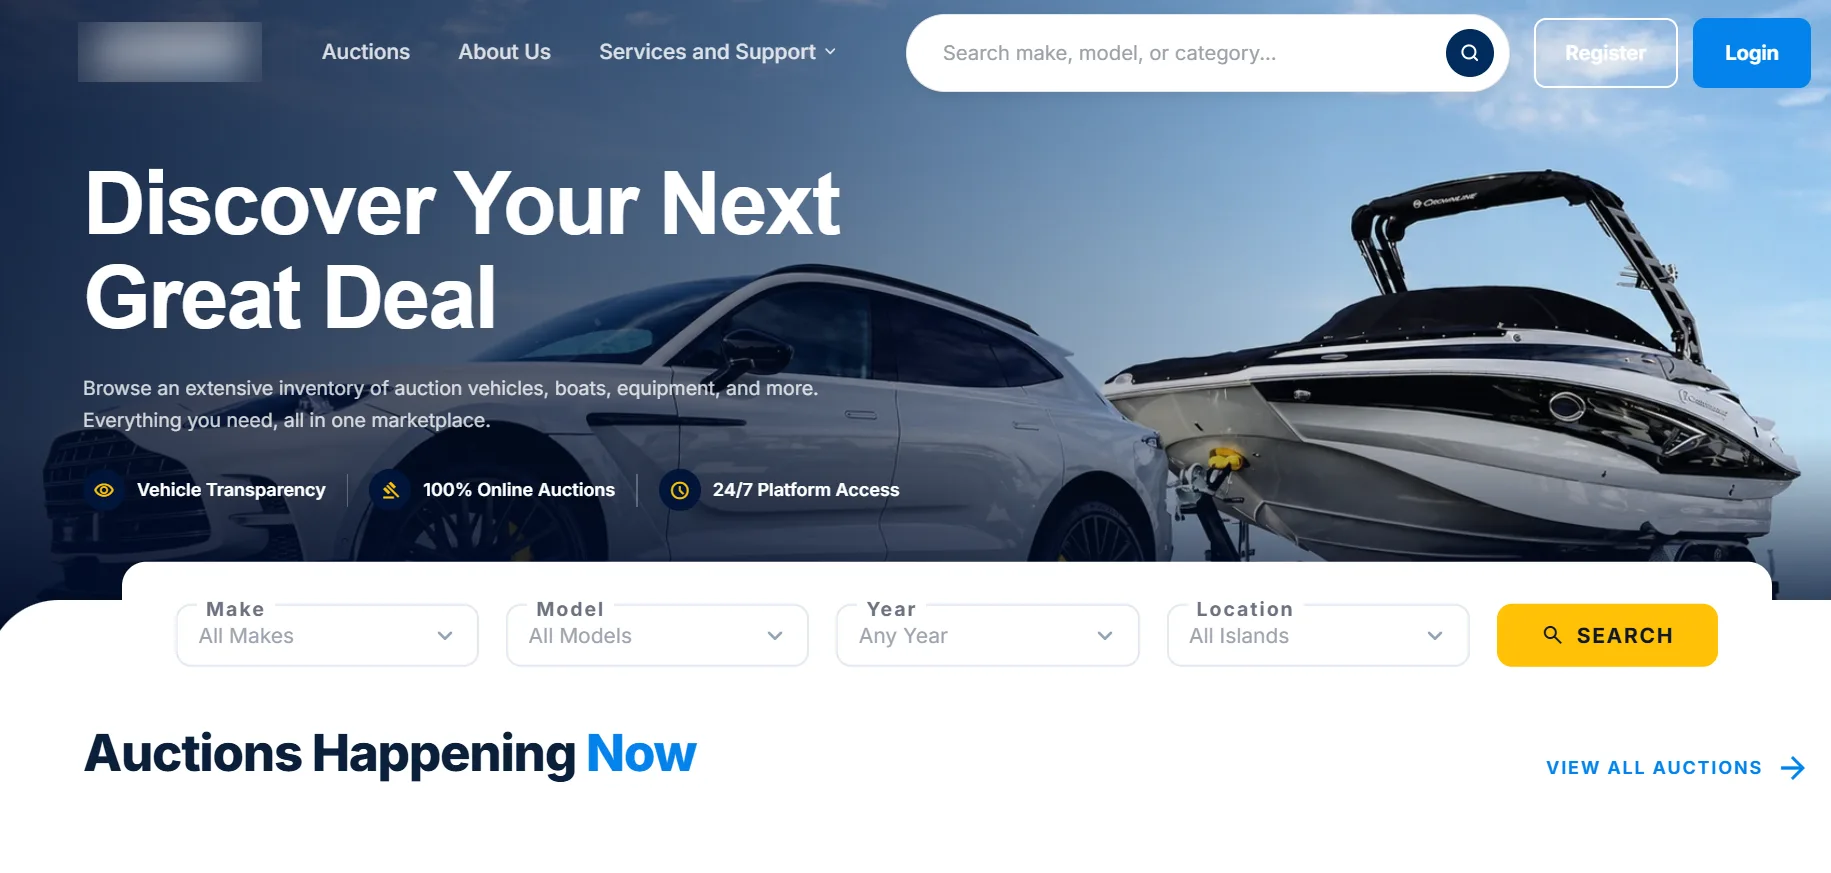
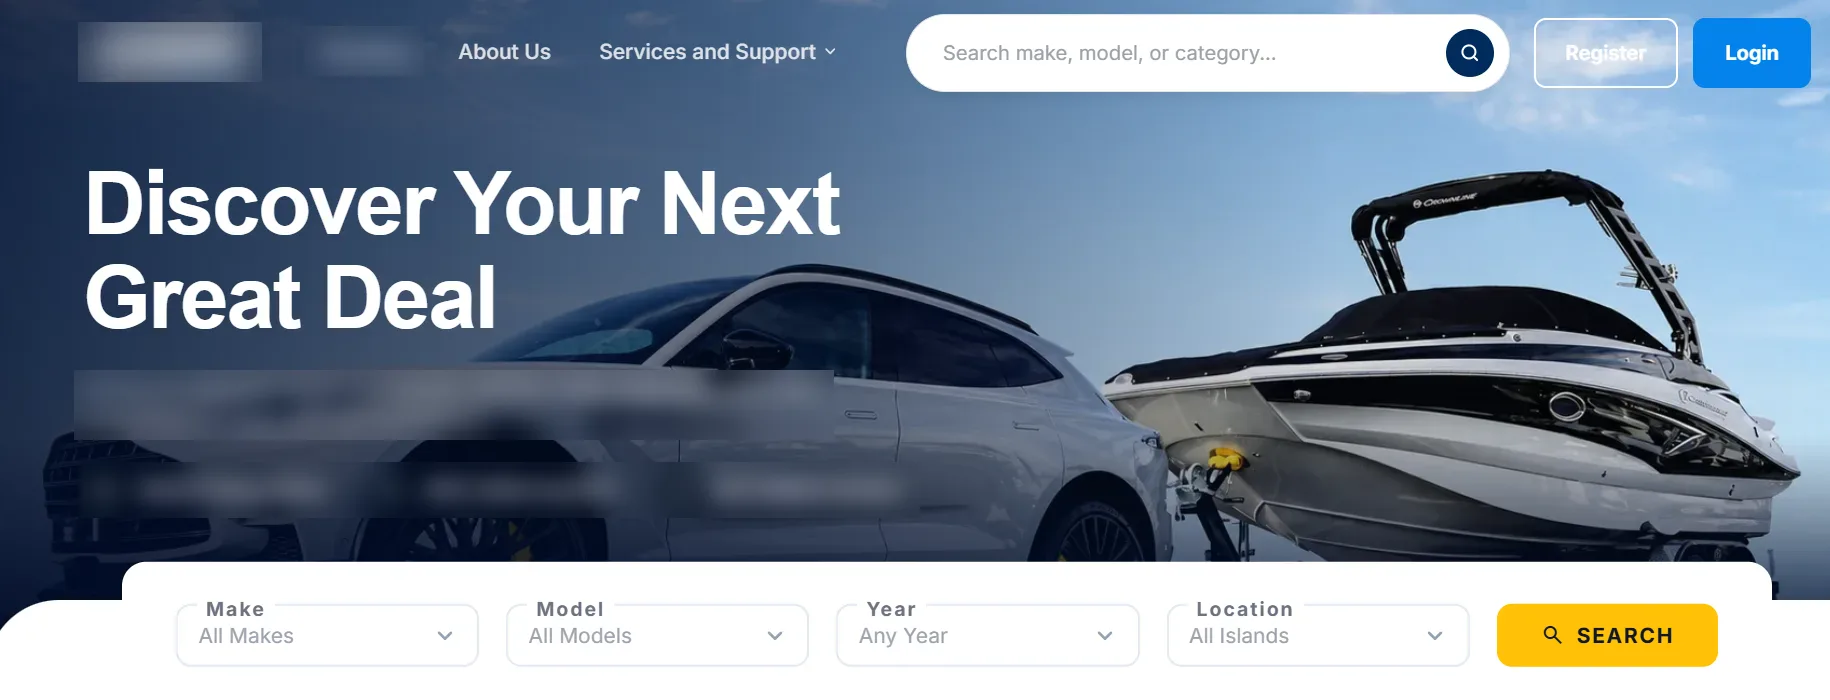
Audit fixes: remove auction wording, add mobile menu, faster loader
- Work screenshots: crop bidding panel, blur auction words; copy and alt text no longer mention bidding
- Mobile menu with all 5 links (button, closes on tap and Escape)
- About monogram visible (was same colour as its background)
- Loader now shows the brand mark and finishes in 1.6s (was a blank 2.4s)
- No request for the missing demo poster (404)
- Heading order fixed, main landmark added
- Illustration label visible, share image for link previews, smooth scroll off for reduced motion
- DESIGN.md added

diff --git a/index.html b/index.html
@@ -13,7 +13,12 @@
 <meta property="og:url" content="https://muhhhamkabeer.github.io/">
 <meta property="og:title" content="Muhammad Kabeer | Software engineer &amp; AI automation">
 <meta property="og:description" content="I build web apps, fix stuck projects and automate repetitive work with AI for small and growing businesses.">
+<meta property="og:image" content="https://muhhhamkabeer.github.io/images/og.png">
+<meta property="og:image:width" content="1200">
+<meta property="og:image:height" content="630">
+<meta property="og:image:alt" content="Muhammad Kabeer, software and AI automation engineer">
 <meta name="twitter:card" content="summary_large_image">
+<meta name="twitter:image" content="https://muhhhamkabeer.github.io/images/og.png">
 <script type="application/ld+json">
 {"@context":"https://schema.org","@type":"Person","name":"Muhammad Kabeer","jobTitle":"Software engineer","address":{"@type":"PostalAddress","addressLocality":"Rawalpindi","addressCountry":"PK"},"sameAs":["https://www.linkedin.com/in/muhammad-kabeer-07b07a2ba/","https://github.com/MUhHHAMKABEER"],"knowsAbout":["Laravel","PHP","React","Next.js","n8n","OpenAI","MySQL"]}
 </script>
@@ -48,7 +53,7 @@
   .display { font-family: Anton, sans-serif; font-weight: 400; text-transform: uppercase; line-height: .98; }
   .serif { font-family: "Instrument Serif", serif; }
   .serif-i { font-family: "Instrument Serif", serif; font-style: italic; text-transform: none; }
-  .eyebrow { font-size: 14px; letter-spacing: .14em; text-transform: uppercase; color: var(--muted); display: flex; align-items: center; gap: 10px; }
+  .eyebrow { font-weight: 400; font-size: 14px; letter-spacing: .14em; text-transform: uppercase; color: var(--muted); display: flex; align-items: center; gap: 10px; }
   .eyebrow::before { content: ""; width: 8px; height: 8px; background: var(--accent); }
   .btn { display: inline-flex; align-items: center; gap: 16px; background: var(--ink); color: var(--on-dark); padding: 10px 10px 10px 24px; border-radius: 999px; font-family: Anton, sans-serif; font-size: 16px; letter-spacing: .04em; text-decoration: none; }
   .btn span { width: 34px; height: 34px; border-radius: 50%; background: #fff; color: var(--ink); display: grid; place-items: center; font-family: Inter; font-size: 18px; }
@@ -82,7 +87,7 @@
   .strip { display: grid; grid-template-columns: repeat(4, 1fr); margin-top: 48px; padding-bottom: 56px; }
   .strip div { padding: 0 24px; border-left: 1px solid var(--line); }
   .strip div:first-child { padding-left: 0; border-left: 0; }
-  .strip h3 { font-family: Anton, sans-serif; font-weight: 400; font-size: 18px; text-transform: uppercase; letter-spacing: .02em; margin-bottom: 10px; }
+  .strip strong { display: block; font-family: Anton, sans-serif; font-weight: 400; font-size: 18px; text-transform: uppercase; letter-spacing: .02em; margin-bottom: 10px; }
   .strip p { font-family: "Instrument Serif", serif; font-size: 16px; color: var(--muted); line-height: 1.3; }
 
 
@@ -205,13 +210,13 @@
   .about blockquote em { color: var(--accent); }
   .about p.body { font-size: 18px; line-height: 1.65; color: var(--muted); margin-bottom: 16px; max-width: 560px; }
   .values { display: grid; grid-template-columns: repeat(3, 1fr); gap: 20px; margin-top: 36px; padding-top: 28px; border-top: 1px solid var(--line); }
-  .values h4 { font-family: Anton, sans-serif; font-weight: 400; font-size: 18px; text-transform: uppercase; margin-bottom: 6px; }
+  .values h3 { font-family: Anton, sans-serif; font-weight: 400; font-size: 18px; text-transform: uppercase; margin-bottom: 6px; }
   .values p { font-family: "Instrument Serif", serif; font-size: 18px; color: var(--muted); line-height: 1.3; }
 
 
   /* Experience */
   .exp { margin-top: 36px; padding-top: 28px; border-top: 1px solid var(--line); }
-  .exp h4.label { font-size: 12px; letter-spacing: .14em; text-transform: uppercase; color: var(--muted); font-family: Inter; font-weight: 500; margin-bottom: 12px; }
+  .exp h3.label { font-size: 12px; letter-spacing: .14em; text-transform: uppercase; color: var(--muted); font-family: Inter; font-weight: 500; margin-bottom: 12px; }
   .exp-row { display: grid; grid-template-columns: 1fr auto; gap: 4px 20px; padding: 14px 0; border-bottom: 1px solid var(--line); }
   .exp-row b { font-family: Anton, sans-serif; font-weight: 400; font-size: 20px; text-transform: uppercase; }
   .exp-row span { font-family: "Instrument Serif", serif; font-size: 18px; color: var(--muted); }
@@ -315,7 +320,7 @@
   .contact a:focus-visible, .work a:focus-visible, .trust a:focus-visible { outline-color: var(--accent-on-dark); }
 
   /* Mobile nav contact pill */
-  .nav-cta { display: none; font-family: Anton, sans-serif; font-size: 14px; letter-spacing: .04em; text-decoration: none; background: var(--ink); color: var(--on-dark); padding: 9px 16px; border-radius: 999px; }
+  .nav-cta { display: none; font-family: Anton, sans-serif; font-size: 14px; text-transform: uppercase; letter-spacing: .04em; text-decoration: none; background: var(--ink); color: var(--on-dark); padding: 9px 16px; border-radius: 999px; }
   @media (max-width: 900px) { .nav-cta { display: inline-block; } }
 
   /* Automation examples (inside Work) */
@@ -344,16 +349,16 @@
   /* =========================================================
      V2: award-style layer (from Kabeer's design video notes)
      ========================================================= */
-  :root { --ease-out: cubic-bezier(.2,.7,.2,1); --ease-io: cubic-bezier(.76,0,.24,1); --intro: 1300ms; }
+  :root { --ease-out: cubic-bezier(.2,.7,.2,1); --ease-io: cubic-bezier(.76,0,.24,1); --intro: 800ms; }
 
   /* 1. Loader: the logo pieces lock together ("problem solved"), then panels slide up one by one */
-  .loader { position: fixed; inset: 0; z-index: 100; display: grid; grid-template-columns: repeat(5, 1fr); pointer-events: none; animation: loader-off 0s linear 2.4s forwards; }
-  .loader i { background: var(--dark); transform-origin: top; animation: panel-up .9s var(--ease-io) forwards; animation-delay: calc(950ms + var(--k) * 70ms); }
-  .loader-mark { position: absolute; inset: 0; display: grid; place-items: center; color: var(--on-dark); animation: mark-out .5s var(--ease-io) 800ms forwards; }
+  .loader { position: fixed; inset: 0; z-index: 100; display: grid; grid-template-columns: repeat(5, 1fr); pointer-events: none; animation: loader-off 0s linear 1.6s forwards; }
+  .loader i { background: var(--dark); transform-origin: top; animation: panel-up .7s var(--ease-io) forwards; animation-delay: calc(600ms + var(--k) * 60ms); }
+  .loader-mark { position: absolute; inset: 0; display: grid; place-items: center; color: var(--on-dark); animation: mark-out .35s var(--ease-io) 520ms forwards; }
   .loader-mark svg { width: 96px; height: 96px; overflow: visible; }
-  .loader-mark .pa { animation: piece-a .7s var(--ease-out) both; }
-  .loader-mark .pb { animation: piece-b .7s var(--ease-out) both; }
-  .loader-mark .pc { transform-origin: 100px 100px; animation: piece-c .4s var(--ease-out) .45s both; }
+  .loader-mark .pa { animation: piece-a .5s var(--ease-out) both; }
+  .loader-mark .pb { animation: piece-b .5s var(--ease-out) both; }
+  .loader-mark .pc { transform-origin: 100px 100px; animation: piece-c .3s var(--ease-out) .3s both; }
   @keyframes piece-a { from { transform: translate(-60px, -60px); opacity: 0; } }
   @keyframes piece-b { from { transform: translate(60px, 60px); opacity: 0; } }
   @keyframes piece-c { from { transform: scale(0); } }
@@ -488,23 +493,39 @@
     .nodes i { min-width: 6px; margin: 0 3px; }
     .c2 { left: 16px; bottom: 40px; }
   }
+  /* Fixes (Nov 24): mobile menu, about monogram */
+  .nav-right { display: flex; align-items: center; gap: 8px; }
+  .menu-btn { display: none; font: 400 14px/1 Anton, sans-serif; letter-spacing: .04em; text-transform: uppercase; color: var(--ink); background: none; border: 1.5px solid var(--ink); border-radius: 999px; padding: 0 16px; height: 40px; cursor: pointer; }
+  .mobile-menu { display: none; }
+  @media (max-width: 900px) {
+    .menu-btn { display: inline-block; }
+    .nav-cta { height: 40px; line-height: 22px; }
+    .mobile-menu:not([hidden]) { display: flex; flex-direction: column; padding-bottom: 12px; }
+    .mobile-menu a { font-family: Anton, sans-serif; font-size: 28px; text-transform: uppercase; text-decoration: none; padding: 12px 0; border-top: 1px solid var(--line); }
+    .about-photo { max-width: 300px; }
+  }
+  .win .bar .ill { margin-left: auto; font-style: normal; font-size: 10px; letter-spacing: .08em; text-transform: uppercase; color: var(--muted); }
+  @media (prefers-reduced-motion: reduce) { html { scroll-behavior: auto; } }
+  .about-mk { position: absolute; inset: 0; display: grid; place-items: center; font-family: Anton, sans-serif; font-size: 120px; color: var(--on-dark); }
 </style>
 </head>
 <body>
 <a class="skip" href="#main">Skip to content</a>
-<div class="loader" aria-hidden="true"><i style="--k:0"></i><i style="--k:1"></i><i style="--k:2"></i><i style="--k:3"></i><i style="--k:4"></i></div>
+<div class="loader" aria-hidden="true"><i style="--k:0"></i><i style="--k:1"></i><i style="--k:2"></i><i style="--k:3"></i><i style="--k:4"></i><div class="loader-mark"><svg viewBox="0 0 200 200"><path class="pa" d="M40 120V40h80" fill="none" stroke="currentColor" stroke-width="22"/><path class="pb" d="M160 80v80H80" fill="none" stroke="currentColor" stroke-width="22"/><rect class="pc" x="84" y="84" width="32" height="32" fill="currentColor"/></svg></div></div>
 
 <div class="topbar">
   <nav class="wrap" aria-label="Main">
     <a class="brand-x" href="#" aria-label="Muhammad Kabeer, home"><span class="mk">MK</span></a>
     <div class="links"><a href="#about">About</a><a href="#work">Work</a><a href="#services">Services</a><a href="#process">Process</a><a href="#contact">Contact</a></div>
-    <a class="nav-cta" href="#contact">Contact</a>
+    <div class="nav-right"><a class="nav-cta" href="#contact">Contact</a><button class="menu-btn" type="button" aria-expanded="false" aria-controls="mobile-menu">Menu</button></div>
   </nav>
+  <div class="mobile-menu wrap" id="mobile-menu" hidden><a href="#about">About</a><a href="#work">Work</a><a href="#services">Services</a><a href="#process">Process</a><a href="#contact">Contact</a></div>
 </div>
 
-<header class="wrap">
+<main id="main">
+<div class="wrap">
 
-  <section class="hero" id="main">
+  <section class="hero" aria-label="Intro">
     <div>
       <p class="hello serif">Hey. I'm Kabeer,</p>
       <h1 class="display"><span class="m"><span class="w" style="--i:0">Software</span></span><em class="serif-i"><span class="m"><span class="w" style="--i:1">&amp;</span></span> <span class="m"><span class="w" style="--i:2">AI</span></span> <span class="m"><span class="w" style="--i:3">automation</span></span></em><span class="m"><span class="w" style="--i:4">engineer</span></span></h1>
@@ -513,7 +534,7 @@
     </div>
     <div class="show" aria-hidden="true">
       <div class="win">
-        <div class="bar"><i></i><i></i><i></i><span>dashboards · portals · stores</span></div>
+        <div class="bar"><i></i><i></i><i></i><span>dashboards · portals · stores</span><em class="ill">Illustration</em></div>
         <div class="scr">
           <div class="scr-top"><b></b><em></em><em></em><em></em></div>
           <div class="dash">
@@ -523,7 +544,6 @@
             <div class="chart"><svg viewBox="0 0 300 90" preserveAspectRatio="none"><path d="M0 70 C 40 60, 60 30, 100 40 S 160 75, 200 45 S 260 15, 300 20 L300 90 L0 90 Z" fill="#235347" opacity=".18"/><path d="M0 70 C 40 60, 60 30, 100 40 S 160 75, 200 45 S 260 15, 300 20" fill="none" stroke="#235347" stroke-width="3"/></svg></div>
             <div class="list"><p></p><p></p><p></p><p></p></div>
           </div>
-          <span class="scr-tag">Illustration</span>
         </div>
       </div>
       <div class="flow">
@@ -541,12 +561,12 @@
   </section>
 
   <div class="strip">
-    <div><h3>Web apps</h3><p>The platform your business needs, built to grow.</p></div>
-    <div><h3>Project rescue</h3><p>Your stuck project, finished and live.</p></div>
-    <div><h3>AI automation</h3><p>Stop doing the same task by hand every day.</p></div>
-    <div><h3>Ongoing support</h3><p>Fixes and new features when you need them.</p></div>
+    <div><strong>Web apps</strong><p>The platform your business needs, built to grow.</p></div>
+    <div><strong>Project rescue</strong><p>Your stuck project, finished and live.</p></div>
+    <div><strong>AI automation</strong><p>Stop doing the same task by hand every day.</p></div>
+    <div><strong>Ongoing support</strong><p>Fixes and new features when you need them.</p></div>
   </div>
-</header>
+</div>
 
 <div class="trust">
   <ul class="wrap">
@@ -567,20 +587,20 @@
 <!-- About -->
 <section id="about" class="about sec">
   <div class="wrap about-grid">
-    <div class="about-photo" aria-hidden="true"><span style="position:absolute;inset:0;display:grid;place-items:center;font-family:Anton,sans-serif;font-size:120px;color:#235347">MK</span></div>
+    <div class="about-photo" aria-hidden="true"><span class="about-mk">MK</span></div>
     <div>
-      <p class="eyebrow">About me</p>
+      <h2 class="eyebrow">About me</h2>
       <blockquote>I like hard problems. <em>Most of them can be solved with good software.</em></blockquote>
       <p class="body">I'm Kabeer, a software engineer from Rawalpindi, Pakistan. For the last 3+ years I've been building web apps with Laravel and React, including 10 months as a Laravel developer at Hexafume, a software house, and more recently AI automations with n8n and OpenAI.</p>
       <div class="exp">
-        <h4 class="label">Experience</h4>
+        <h3 class="label">Experience</h3>
         <div class="exp-row"><b>Hexafume</b><span class="when">Sep 2025 – Jun 2026</span><span>Laravel developer at a software house. Built and maintained web apps for its clients (details under NDA).</span></div>
         <div class="exp-row"><b>Freelance</b><span class="when">Project</span><span>Built an online marketplace platform end to end</span></div>
       </div>
       <div class="values">
-        <div><h4>Based in</h4><p>Rawalpindi, Pakistan. Working remotely.</p></div>
-        <div><h4>Studying</h4><p>BS Software Engineering, NUML.</p></div>
-        <div><h4>How I work</h4><p>Straight talk, clear updates, you own the code.</p></div>
+        <div><h3>Based in</h3><p>Rawalpindi, Pakistan. Working remotely.</p></div>
+        <div><h3>Studying</h3><p>BS Software Engineering, NUML.</p></div>
+        <div><h3>How I work</h3><p>Straight talk, clear updates, you own the code.</p></div>
       </div>
     </div>
   </div>
@@ -603,7 +623,7 @@
         <h3 class="display">Online marketplace platform</h3>
         <p class="sub serif">Vehicle &amp; marine sales for a Bahamas-based business</p>
         <dl>
-          <dt>Need</dt><dd>The business needed its own online platform where buyers and sellers across the islands could list, find and bid on vehicles and boats.</dd>
+          <dt>Need</dt><dd>The business needed its own online platform where buyers and sellers across the islands could list and find vehicles and boats.</dd>
           <dt>What I built</dt><dd>The full platform end to end, from the database to the screens buyers and sellers use.</dd>
           <dt>Result</dt><dd>Live in production.</dd>
         </dl>
@@ -611,8 +631,8 @@
         <div class="facts-row"><div><b>1</b><span>developer, end to end</span></div><div><b>Live</b><span>in production</span></div><div><b>2-sided</b><span>buyers and sellers</span></div></div>
       </div>
       <div class="gallery">
-        <div class="shot"><div class="bar"><i></i><i></i><i></i></div><img src="images/work-marketplace-home.webp" width="1831" height="873" alt="Marketplace home page with search by make, model, year and island" loading="lazy"></div>
-        <div class="shot"><div class="bar"><i></i><i></i><i></i></div><img src="images/work-marketplace-listing.webp" width="1665" height="859" alt="Listing page with photo gallery, live countdown and bidding panel" loading="lazy"></div>
+        <div class="shot"><div class="bar"><i></i><i></i><i></i></div><img src="images/work-marketplace-home.webp" width="1831" height="700" alt="Marketplace home page with search by make, model, year and island" loading="lazy"></div>
+        <div class="shot"><div class="bar"><i></i><i></i><i></i></div><img src="images/work-marketplace-listing.webp" width="1105" height="859" alt="Vehicle listing page with condition badges and a photo gallery" loading="lazy"></div>
         <div class="shot"><div class="bar"><i></i><i></i><i></i></div><img src="images/work-marketplace-details.webp" width="1890" height="663" alt="Vehicle details table and damage diagram" loading="lazy"></div>
       </div>
     </article>
@@ -620,7 +640,8 @@
     <!-- AI RECEPTIONIST DEMO: hidden until a REAL recording exists. To show it:
          1) put the video at videos/ai-receptionist-demo.mp4 and a still frame at images/ai-receptionist-poster.webp
          2) fill in the "What it did" line with what really happens in the call
-         3) delete the word hidden from the <article> tag below -->
+         3) add poster="images/ai-receptionist-poster.webp" to the <video> tag
+         4) delete the word hidden from the <article> tag below -->
     <article class="case" id="demo" hidden>
       <div>
         <span class="case-num">02 / AI automation <span class="badge">Demo</span></span>
@@ -633,7 +654,7 @@
         </dl>
         <div class="tags"><span>Voice AI</span><span>n8n</span><span>OpenAI</span></div>
       </div>
-      <div class="shot"><div class="bar"><i></i><i></i><i></i></div><video controls preload="none" playsinline poster="images/ai-receptionist-poster.webp" width="1280" height="720"><source src="videos/ai-receptionist-demo.mp4" type="video/mp4">Your browser can't play this video.</video></div>
+      <div class="shot"><div class="bar"><i></i><i></i><i></i></div><video controls preload="none" playsinline width="1280" height="720"><source src="videos/ai-receptionist-demo.mp4" type="video/mp4">Your browser can't play this video.</video></div>
     </article>
 
     <div class="autos">
@@ -744,6 +765,17 @@
     </footer>
   </div>
 </section>
+</main>
 
+<script>
+  // Mobile menu: open/close, close on link tap or Escape
+  (function () {
+    var btn = document.querySelector('.menu-btn'), menu = document.getElementById('mobile-menu');
+    function set(open) { btn.setAttribute('aria-expanded', open); menu.hidden = !open; btn.textContent = open ? 'Close' : 'Menu'; }
+    btn.addEventListener('click', function () { set(menu.hidden); });
+    menu.addEventListener('click', function (e) { if (e.target.tagName === 'A') set(false); });
+    document.addEventListener('keydown', function (e) { if (e.key === 'Escape' && !menu.hidden) { set(false); btn.focus(); } });
+  })();
+</script>
 </body>
 </html>

diff --git a/DESIGN.md b/DESIGN.md
@@ -1,0 +1,109 @@
+# Design System: Muhammad Kabeer portfolio
+
+Written from the live site (index.html) on 24 Nov 2026. This file is the rule book.
+If a skill, a detector or a habit disagrees with this file, this file wins.
+
+## Overview
+
+One-page portfolio for a software and AI automation engineer, aimed at small business
+owners in the US, UK and Australia who arrive from a cold email. Mode: Persuade.
+Editorial and confident: huge condensed uppercase display type, a soft italic serif
+voice, a 3-colour dark green palette, and one product-mockup hero.
+
+Fixed decisions (do not change without Kabeer saying so):
+- Palette is dark green: #051F20, #235347 and white. Other values are tints of these.
+- Hero headline: "Software & AI automation engineer".
+- Never position the work as an auction business. The marketplace project is described
+  as an online marketplace for vehicles and boats. No "auction", "bid" or "bidding"
+  in copy, alt text or visible in screenshots.
+- The marketplace client stays anonymous. No client name or logo in copy or screenshots.
+- Only true facts. No invented numbers, clients, results or testimonials.
+- Contact is through LinkedIn for now.
+
+## Colors
+
+### Primary
+- `--ink` / `--dark` #051F20: text on light, dark sections (trust bar, work, contact).
+- `--accent` / `--muted` / `--photo` #235347: secondary text, accent shapes, AI nodes.
+
+### Neutral
+- `--bg` #FFFFFF, `--bg-2` #F3F5F5 (tiles, about band), `--line` #E2E7E7.
+- On dark: `--on-dark` #FFFFFF, `--on-dark-muted` white at 70%, `--dark-line` white at 14%.
+
+### Named rules
+- **Three colours only.** No new hues. Status, hover and focus come from these three.
+- **Contrast floor.** Body text 4.5:1, large text 3:1. Never put text in the same colour
+  as its background (placeholders included).
+
+## Typography
+
+- Display: **Anton**, uppercase, line-height .98. Headlines, labels, numbers, buttons.
+- Voice: **Instrument Serif**, italic for the emphasised word inside a display headline
+  (`em.serif-i`), roman for leads and short descriptions.
+- Body/UI: **Inter** 400/500/600.
+
+### Hierarchy (desktop / ≤900px)
+- h1 hero 92px / 56px (italic line 72px / 56px)
+- h2 section 72px / 56px; contact h2 150px / 72px
+- h3 case 44px / 28px; tile 28px; step/card 44px / 28px
+- Lead 24px serif; body 16–18px Inter, line-height 1.55–1.65
+- One h1. Headings go in order (h1 → h2 → h3), no skipped levels.
+
+## Layout
+
+- `.wrap` max 1440px, side padding 72px, 16px at ≤900px.
+- Sections: 110px vertical padding, 72px at ≤900px.
+- Breakpoints: 1200px (hero stacks), 900px (mobile layout), 600px (hero art simplified).
+- Must work at 1440px and 375px with no horizontal scroll.
+
+## Elevation & Depth
+
+- `--shadow-1` 0 12px 28px rgba(5,31,32,.14): hover lift, chips, stacked cards.
+- `--shadow-2` 0 40px 80px -20px rgba(5,31,32,.45): floating hero window, phone, flow card.
+- A soft blurred ellipse under floating objects. Film grain overlay at 7%.
+
+## Shapes
+
+- Radius: 10px small, 20px cards and windows, 999px pills, 240px arches (hero, about photo).
+- Brand motif: the interlocking corner bracket (top + left border), used in eyebrows,
+  the loader mark and the Work reveal.
+
+## Components
+
+### Buttons
+- Primary `.btn`: ink pill, Anton 16px, white circle with arrow on the right. Hover lifts 2px,
+  arrow moves 4px. `.btn.light` is the inverse on dark.
+- Secondary `.btn-2`: 54px outline pill, fills ink on hover.
+
+### Navigation
+- Sticky glass top bar (white 72% + 14px blur), MK monogram left, 5 anchor links right.
+- At ≤900px a menu button opens the same 5 links; a Contact pill stays visible.
+
+### Cards / containers
+- Bento tiles (`.tile`) on `--bg-2`; stacked sticky process cards (`.card`) in 4 tones.
+- Work case study: text left, browser-frame screenshots right.
+
+### FAQ
+- Native `details/summary`, Anton 24px, +/– marker.
+
+## Motion
+
+- Intro: short loader (brand mark locks together, panels lift), then the headline words rise
+  from behind a mask. Whole intro under ~1.5s.
+- Scroll: sections fade and rise in once; Work opens from the logo's centre square.
+- Marquee of the tech stack.
+- `prefers-reduced-motion: reduce` turns off the loader, marquee, reveals, word rise and
+  smooth scrolling. Content is fully visible with no motion.
+
+## Do's and Don'ts
+
+### Do
+- Keep real, checked facts only (10 months at Hexafume, one live marketplace, you own the code).
+- Label illustrations as illustrations, and keep that label visible.
+- Test at 1440px and 375px with Playwright before calling anything done.
+
+### Don't
+- Don't add colours, fonts or claims that are not here.
+- Don't show "auction", "bid" or the client's name or logo anywhere.
+- Don't hide content behind a long loader.
+- Don't ship requests for files that don't exist (404s).
